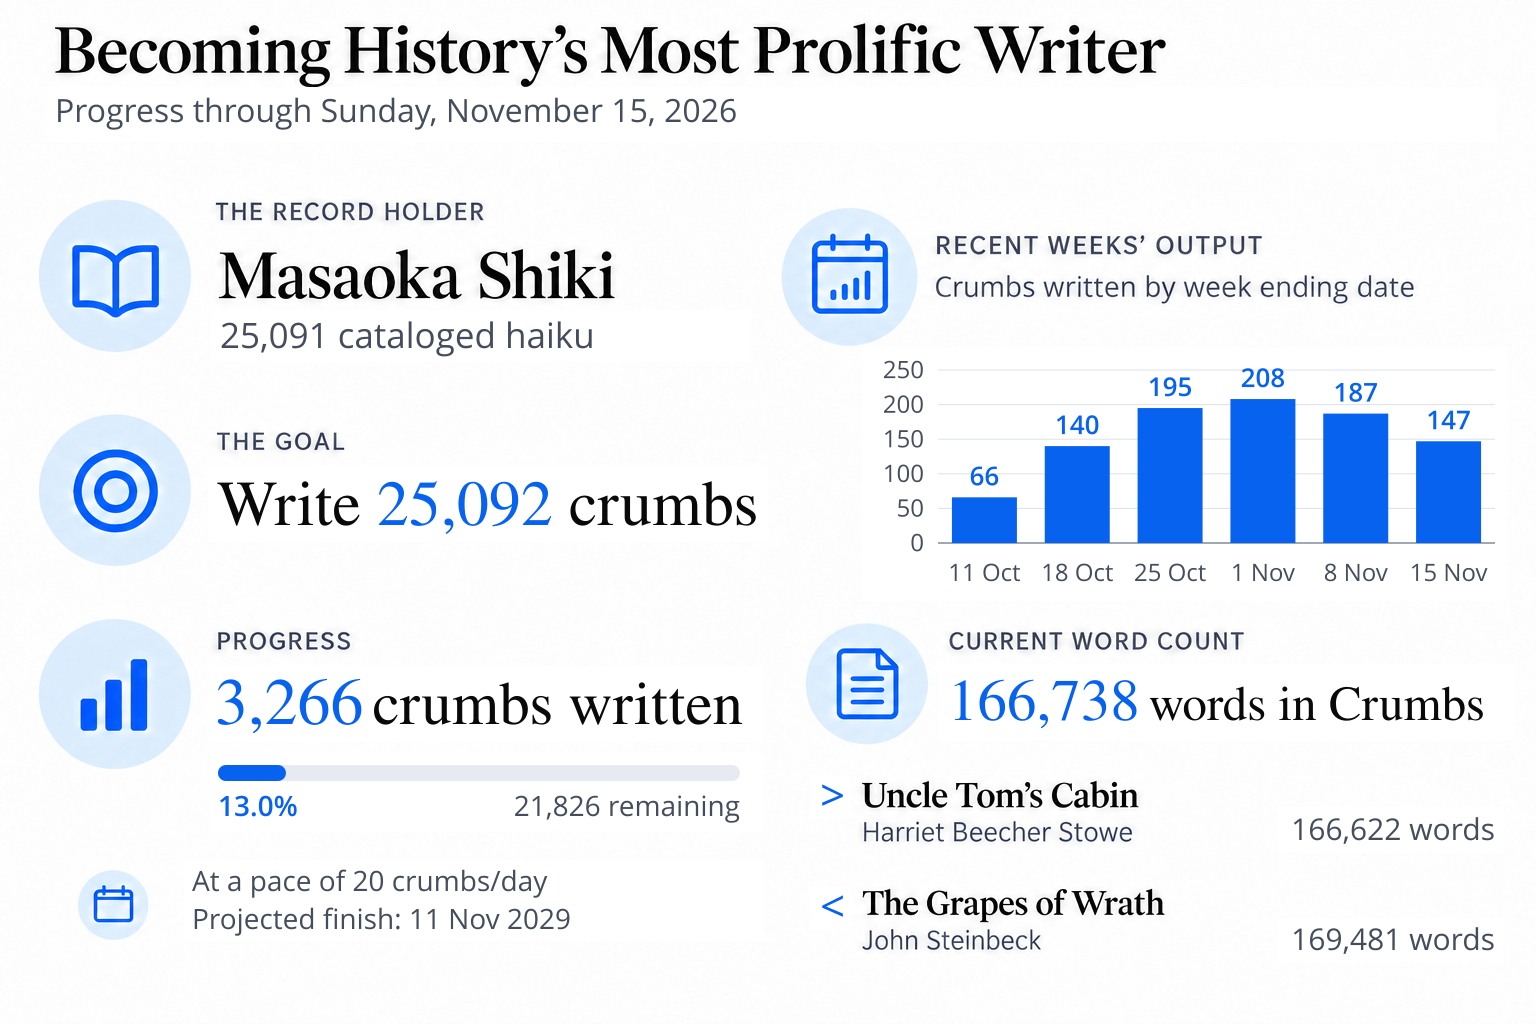
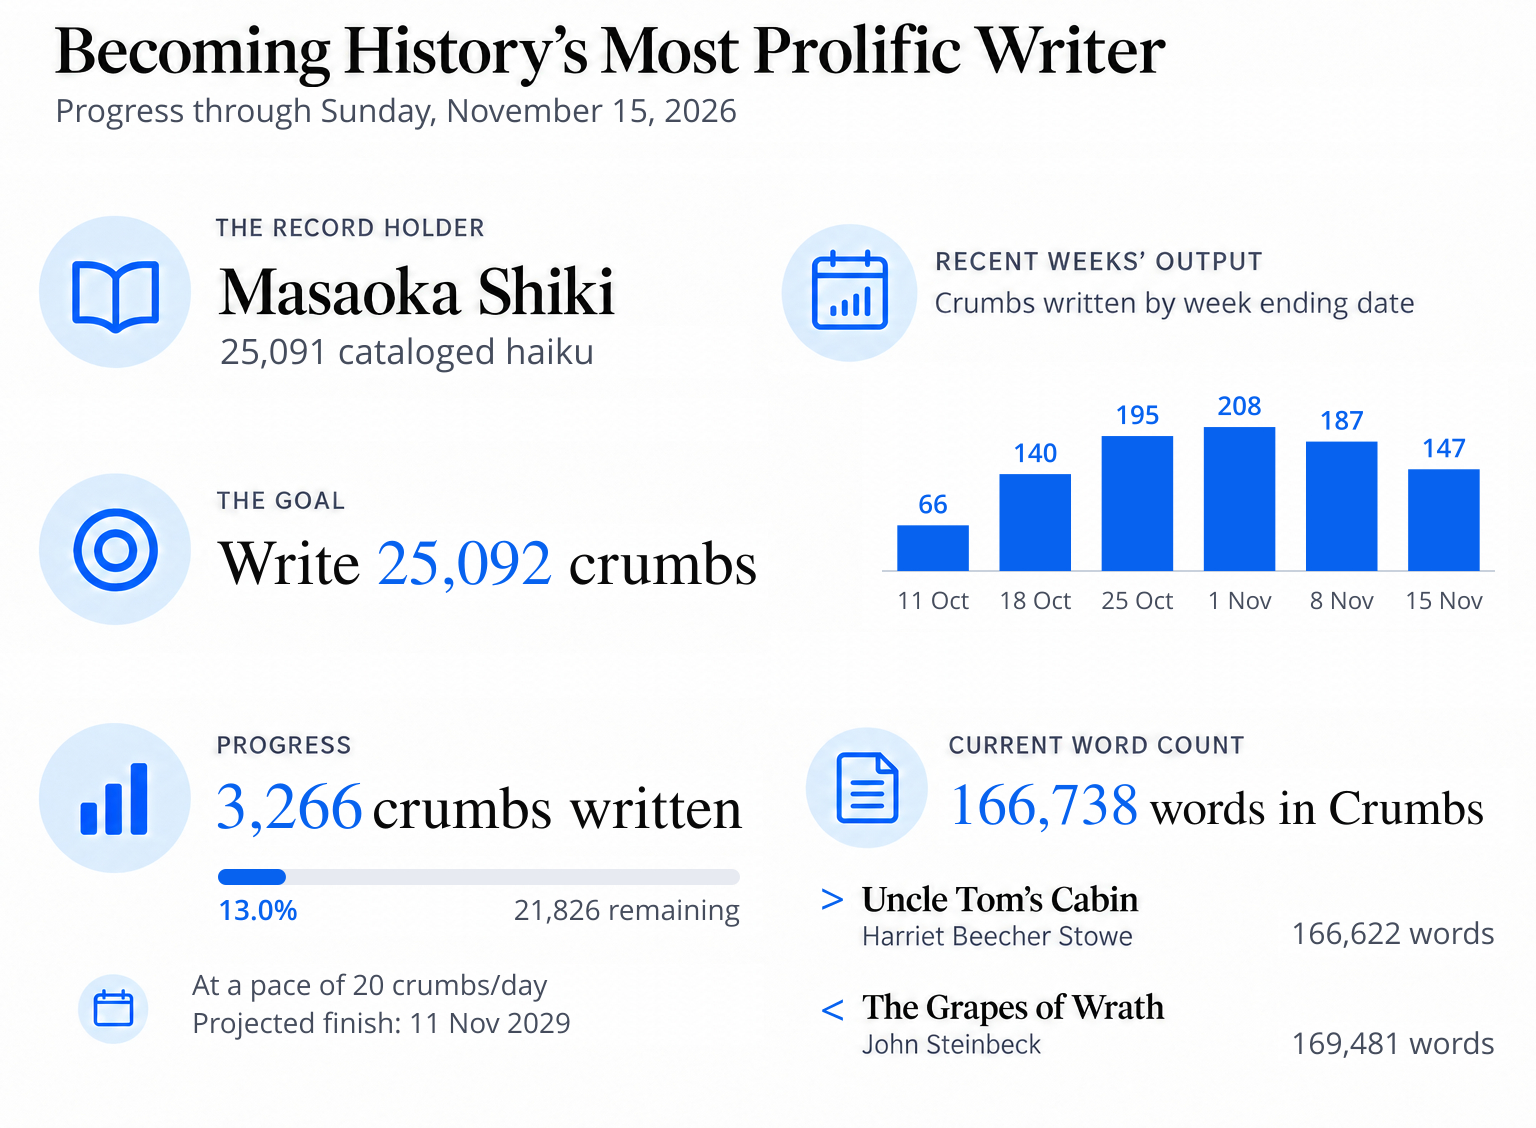
Give the Stats panels more space and crop the artwork to the page margins

diff --git a/index.html b/index.html
@@ -24,7 +24,7 @@
 <meta property="twitter:title" content="The Crumbs by Alfredo Llaquet-Alsina" />
 <script type="application/ld+json">
 {"@context":"https://schema.org","@type":"WebSite","description":"My goal is to write more than 25,091 tiny literary pieces (crumbs) to become the most prolific writer in history.","headline":"The Crumbs by Alfredo Llaquet-Alsina","image":{"width":1734,"height":907,"alt":"TheCrumbs.org. Writing relentlessly to become the most prolific author ever. Stacks of printed pages and loose sheets on a white background.","url":"https://www.thecrumbs.org/img/social-preview.png","@type":"imageObject"},"name":"The Crumbs by Alfredo Llaquet-Alsina","url":"https://www.thecrumbs.org/"}</script>
-<link rel="stylesheet" href="assets/css/style.css?v=20261108-stats-spacing">
+<link rel="stylesheet" href="assets/css/style.css?v=20261120-stats-crop">
     
 
 <link rel="icon" type="image/x-icon" href="favicon.ico">
@@ -144,8 +144,8 @@
 
 <p><em>Crumb 2225</em>: <strong>My Real Competitors</strong>: Worried, for once, about accuracy, I asked my assistant ChatGPT to conduct an exhaustive investigation about what concerns crumb 2169, and it concluded that of Mr. Takahama’s purported more than 30,000 haiku, only 22,189 have been documented, which turns his teacher, the also Japanese poet Masaoka Shiki, into the most prolific writer in history, with 25,091 catalogued 5-7-5 poems. Suddenly, for me to inherit this figurative throne, 25,092 crumbs will suffice.</p>
 <picture class="crumbs-stats-image">
-  <source media="(max-width: 600px)" srcset="img/ProgressP.jpg" />
-  <img src="img/Progress.jpg" alt="Becoming History’s Most Prolific Writer: Progress through Sunday, November 15, 2026 - The Record Holder: Masaoka Shiki: 25,091 cataloged haiku - The Goal: Write 25,092 crumbs, one more than the record - Progress: 3,266 crumbs written; 13.0% completed; 21,826 remaining - At a pace of 20 crumbs/day: Projected finish 11 Nov 2029 - Weekly Output: Number of crumbs written, by week ending date: 11 Oct 2026 = 66, 18 Oct 2026 = 140, 25 Oct 2026 = 195, 1 Nov 2026 = 208, 8 Nov 2026 = 187, 15 Nov 2026 = 147 - Current Word Count: Crumbs: 166,738 words; Harriet Beecher Stowe’s Uncle Tom’s Cabin: 166,622 words (Crumbs: 116 words ahead); John Steinbeck’s The Grapes of Wrath: 169,481 words (Crumbs: 2,743 words to go)" />
+  <source media="(max-width: 600px)" srcset="img/ProgressP.jpg?v=20261120-stats-crop" />
+  <img src="img/Progress.jpg?v=20261120-stats-crop" alt="Becoming History’s Most Prolific Writer: Progress through Sunday, November 15, 2026 - The Record Holder: Masaoka Shiki: 25,091 cataloged haiku - The Goal: Write 25,092 crumbs, one more than the record - Progress: 3,266 crumbs written; 13.0% completed; 21,826 remaining - At a pace of 20 crumbs/day: Projected finish 11 Nov 2029 - Weekly Output: Number of crumbs written, by week ending date: 11 Oct 2026 = 66, 18 Oct 2026 = 140, 25 Oct 2026 = 195, 1 Nov 2026 = 208, 8 Nov 2026 = 187, 15 Nov 2026 = 147 - Current Word Count: Crumbs: 166,738 words; Harriet Beecher Stowe’s Uncle Tom’s Cabin: 166,622 words (Crumbs: 116 words ahead); John Steinbeck’s The Grapes of Wrath: 169,481 words (Crumbs: 2,743 words to go)" />
 </picture>
 
 <h2 id="short-faq">What Is in It for You?</h2>

diff --git a/assets/css/style.css b/assets/css/style.css
@@ -420,10 +420,42 @@ html {
   display: none !important;
 }
 
-/* Match the desktop stats gap to the page's 24px spacing. */
+/* Visible artwork in source pixels. The page container supplies the outer margin. */
+.markdown-body .crumbs-stats-image {
+  --stats-source-width: 1536;
+  --stats-left: 37;
+  --stats-top: 21;
+  --stats-view-width: 1460;
+  --stats-view-height: 1039;
+  display: block;
+  position: relative;
+  width: 100%;
+  aspect-ratio: var(--stats-view-width) / var(--stats-view-height);
+  overflow: hidden;
+}
+
+.markdown-body .crumbs-stats-image > img {
+  position: absolute;
+  display: block;
+  width: calc(100% * var(--stats-source-width) / var(--stats-view-width));
+  height: auto;
+  max-width: none;
+  left: calc(-100% * var(--stats-left) / var(--stats-view-width));
+  top: calc(-100% * var(--stats-top) / var(--stats-view-height));
+}
+
+@media (max-width: 600px) {
+  .markdown-body .crumbs-stats-image {
+    --stats-source-width: 936;
+    --stats-left: 37;
+    --stats-top: 14;
+    --stats-view-width: 856;
+    --stats-view-height: 1953;
+  }
+}
+
 @media (min-width: 601px) {
   .markdown-body .crumbs-stats-image {
-    display: block;
     margin-top: 24px;
   }
 }

diff --git a/scripts/stats-image-prompts.md b/scripts/stats-image-prompts.md
@@ -2,9 +2,15 @@
 
 The desktop and phone artwork was revised with the built-in image tool using the accepted development images from commit b46f0100a0b0cfe0c237d52ea280dc1f6b260a74. The original main-branch icon and serif style is retained. Main was not changed.
 
-The finished images are img/Progress.jpg (1536 × 1024) and img/ProgressP.jpg (936 × 1680). Both are complete JPGs at quality 100, including all text. The page does not overlay HTML text.
+The finished images are `img/Progress.jpg` (1536 × 1128) and `img/ProgressP.jpg` (936 × 2016). Both are standalone quality-100 JPEGs with all lettering included. The Stats picture in `assets/css/style.css` crops the exterior paper at the same 600 px breakpoint as the image source.
 
-The image tool creates the composition, title, headings, book titles, author names, and icons. scripts/finish-stats.cjs typesets numeric rows from stats-data.json, draws the exact smaller chart and progress bar, and selects the blue comparison signs from the word totals. The script preserves the image-tool artwork. With no artwork arguments, it uses the existing finished JPGs as its base.
+The image tool supplies the composition, title, headings, book titles, author names, icons, and paper. `scripts/finish-stats.cjs` typesets the numeric rows from `stats-data.json`, draws the progress bar and six weekly bars, and selects the blue comparison signs from the word totals. Each bar starts at the same faint baseline and carries its own count and date. The script spaces whole panels when opening a compact master from the prompts below. With no artwork arguments, it updates the existing JPEGs at their finished dimensions.
+
+## Paper for the expanded layout
+
+The background retouch used the following brief. A sample of the resulting unprinted paper fills the new gaps and numeric rows in both images.
+
+This is a precise background retouch of the supplied landscape Crumbs editorial illustration. The edit target is the attached Stats artwork. Match the quiet neutral-white paper in the open gaps between the panels so the new gaps and the older paper read as one continuous clean high-key white surface. Keep the same established black serif title, gray small type, cobalt illustrated round icons and full five-panel layout, existing panel positions, proportions, and margins. All printed content and its locations are locked; focus exclusively on the empty paper. Preserve the open spacing of this wider landscape graphic, the one-line subtitle, and the pair of book comparisons. No framing or decoration. The neutral paper retouch will also supply paper for the companion vertical image; all exact statistics and lettering are protected and are handled outside this retouch.
 
 ## Desktop revision prompt
 
